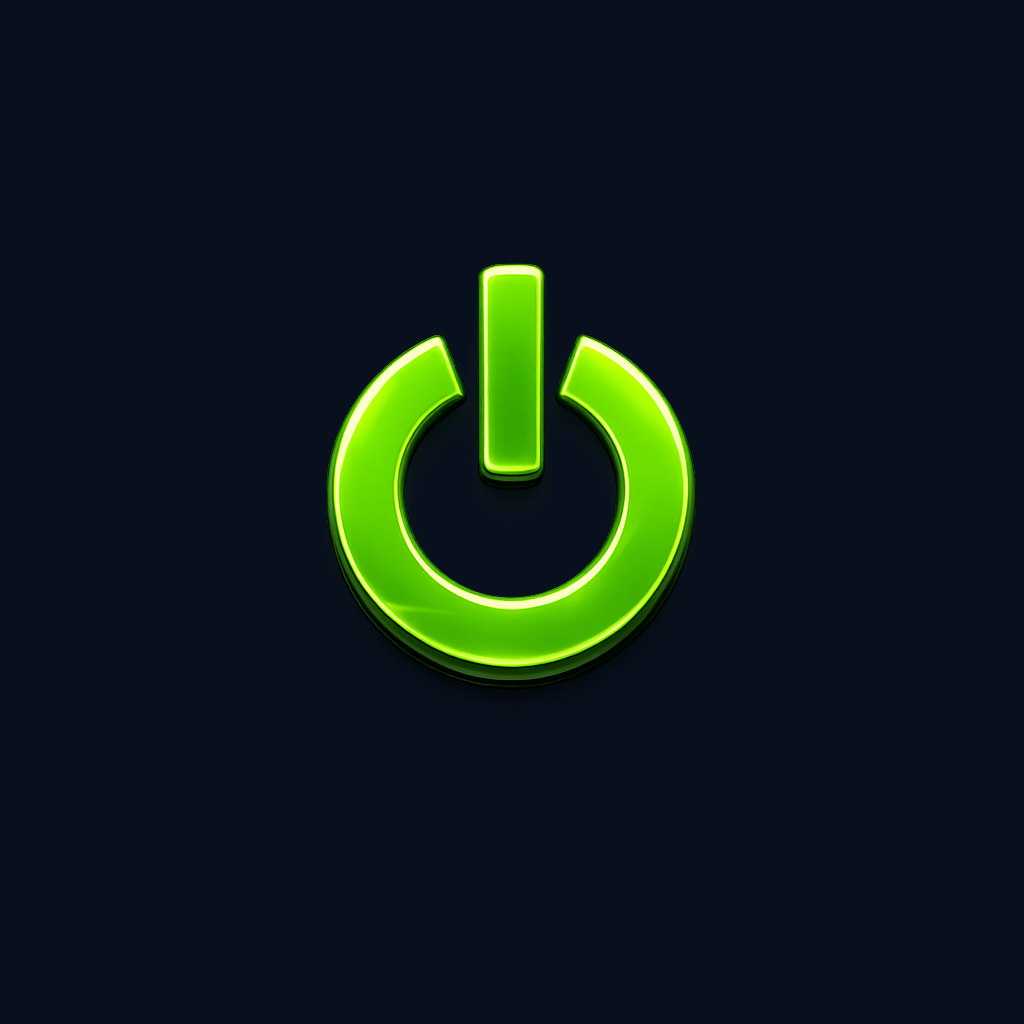
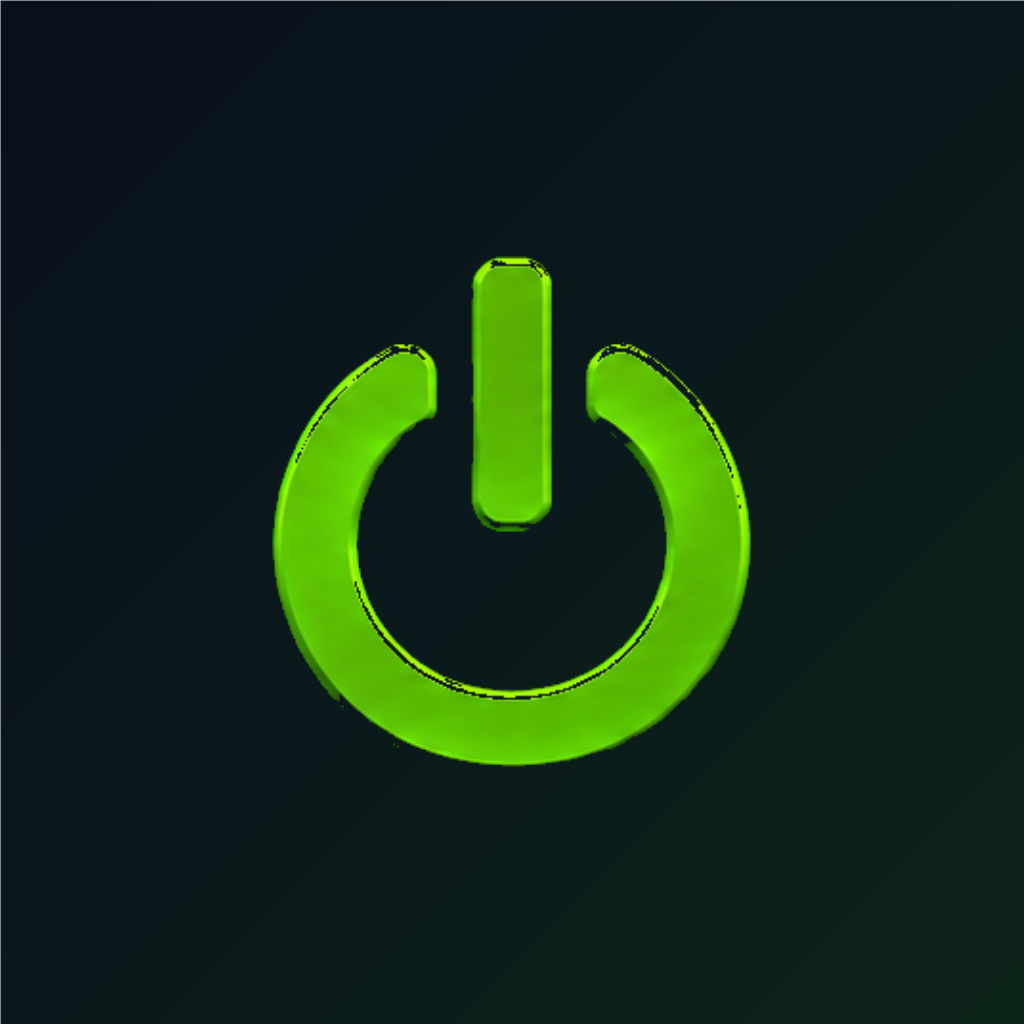
Unify ITspot brand assets

Changed region(s): [[0.25, 0.25, 0.75, 0.75]]

diff --git a/components/dashboard/DashboardPage.tsx b/components/dashboard/DashboardPage.tsx
@@ -1641,7 +1641,7 @@ export default function DashboardPage({ initialTab = 'zakazky' }: DashboardPageP
     }
 
     try {
-      const protocolLogoDataUrl = await loadFirstAvailableImage(['/quote-logo.jpg'])
+      const protocolLogoDataUrl = await loadFirstAvailableImage(['/brand-logo-light.png'])
       const doc = new jsPDF({
         orientation: 'portrait',
         unit: 'mm',
@@ -1659,7 +1659,7 @@ export default function DashboardPage({ initialTab = 'zakazky' }: DashboardPageP
 
       function drawItspotLogo(x: number, y: number) {
         if (protocolLogoDataUrl) {
-          doc.addImage(protocolLogoDataUrl, 'JPEG', x, y, 62, 16)
+          doc.addImage(protocolLogoDataUrl, 'PNG', x, y, 62, 16)
         } else {
           doc.setFont('helvetica', 'bold')
           doc.setFontSize(35)
@@ -1864,10 +1864,7 @@ export default function DashboardPage({ initialTab = 'zakazky' }: DashboardPageP
   try {
     const [logoDataUrl, stampDataUrl] = await Promise.all([
       loadFirstAvailableImage([
-        '/logo.png',
-        '/logo.jpg',
-        '/logo.jpeg',
-        '/logo.webp',
+        '/brand-logo-light.png',
       ]),
       loadFirstAvailableImage([
         '/stamp.png',
@@ -1880,7 +1877,7 @@ export default function DashboardPage({ initialTab = 'zakazky' }: DashboardPageP
     if (!logoDataUrl) {
       setNotice({
         type: 'error',
-        text: 'Chýba logo v public/logo.png (alebo .jpg/.jpeg/.webp).',
+        text: 'Chýba logo v public/brand-logo-light.png.',
       })
       return
     }
@@ -1977,7 +1974,7 @@ export default function DashboardPage({ initialTab = 'zakazky' }: DashboardPageP
 
         if (pageNum === 1) {
           try {
-            doc.addImage(logoDataUrl, 'PNG', margin, 12, 18, 18)
+            doc.addImage(logoDataUrl, 'PNG', margin, 12, 46, 13)
           } catch {}
 
           doc.setFont('helvetica', 'bold')
@@ -2172,7 +2169,7 @@ export default function DashboardPage({ initialTab = 'zakazky' }: DashboardPageP
     setNotice({
       type: 'error',
       text:
-        'Nepodarilo sa vygenerovať PDF. Skontroluj súbory v public/logo.png a public/stamp.png.',
+        'Nepodarilo sa vygenerovať PDF. Skontroluj súbory v public/brand-logo-light.png a public/stamp.png.',
     })
   }
 }

diff --git a/app/cenove-ponuky/page.tsx b/app/cenove-ponuky/page.tsx
@@ -939,7 +939,7 @@ export default function QuotesPage() {
   <div class="topline"></div>
   <section class="header">
     <div>
-      <img class="brand-logo" src="/quote-logo.jpg" alt="ITspot" />
+      <img class="brand-logo" src="/brand-logo-light.png" alt="ITspot" />
       <div class="company"><strong>ITspot s. r. o.</strong><br />Hájles 1703/6, 968 01 Nová Baňa<br />IČO: 56430388 · DIČ: 2122307462<br />IČ DPH: SK2122307462<br />info@itspot.sk · +421 908 806 691</div>
     </div>
     <div class="quote-box">

diff --git a/components/BrandLogo.tsx b/components/BrandLogo.tsx
@@ -34,7 +34,7 @@ export function BrandLogo({ size = 'md', tone = 'light', label = false, style }:
         }}
       >
         <img
-          src="/logo.png"
+          src="/brand-logo-light.png"
           alt="ITspot"
           style={{ width: '100%', height: '100%', objectFit: 'contain', display: 'block' }}
         />

diff --git a/app/ziadost/page.tsx b/app/ziadost/page.tsx
@@ -201,7 +201,7 @@ export default function PublicRequestPage() {
           <div>
             <img
               className="requestLogo"
-              src="/logo-new.png"
+              src="/brand-logo-dark.png"
               alt="ITspot"
               style={{
                 width: 500,

diff --git a/app/moje-poziadavky/page.tsx b/app/moje-poziadavky/page.tsx
@@ -712,7 +712,7 @@ export default function MyRequestsPage() {
         >
           <div className="customerHeroInner">
             <img
-              src="/logo-new.png"
+              src="/brand-logo-dark.png"
               alt="ITspot"
               style={{
                 width: 560,
